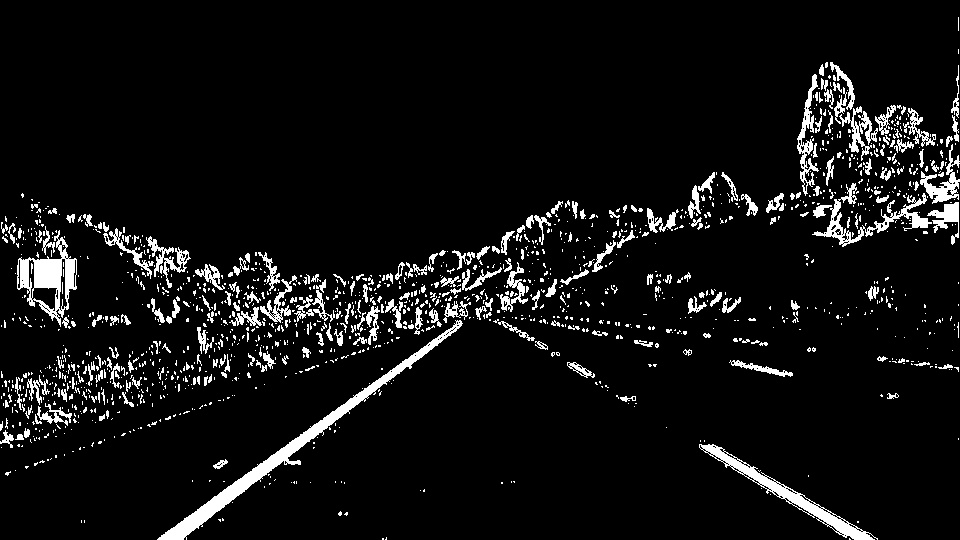
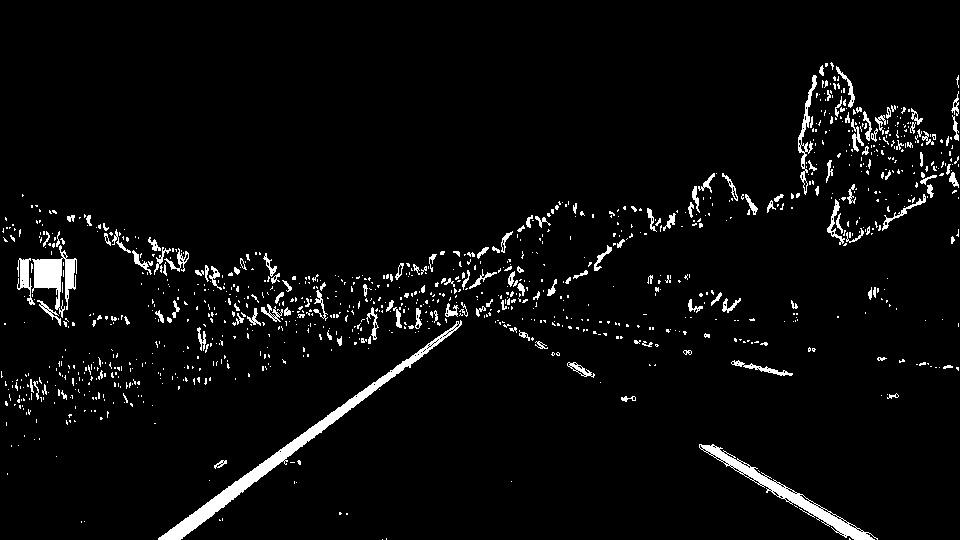
Perspective transform

diff --git a/src/perspective.py b/src/perspective.py
@@ -1,0 +1,117 @@
+"""
+Perspective transform: pogled kamere -> pogled odozgo ("birds-eye view").
+
+Ideja:
+  Na slici kamere paralelne linije trake se skupljaju ka horizontu.
+  Izaberemo 4 tacke na putu koje u stvarnosti cine pravougaonik (SRC trapez)
+  i kazemo OpenCV-u gde zelimo da budu na novoj slici (DST pravougaonik).
+  cv2.getPerspectiveTransform iz ta 4 para tacaka racuna matricu 3x3 (M),
+  a cv2.warpPerspective tom matricom "rasteze" celu sliku.
+  Inverzna matrica (Minv) vraca rezultat nazad na sliku kamere (koristimo na kraju).
+
+"""
+import cv2
+import numpy as np
+import matplotlib
+
+matplotlib.use("Agg")
+import matplotlib.pyplot as plt
+
+from src.calibration import ROOT, load_calibration, undistort
+from src.tresholding import threshold, CAMERA_SHAPE
+
+TEST_DIR = ROOT / "test_images"
+OUT_DIR = ROOT / "output_images"
+WARPED_DIR = OUT_DIR / "warped_binary"
+
+# ----------------------------------------------------------------------------
+# Tacke za 1280x720 sliku. Redosled: gore-levo, gore-desno, dole-desno, dole-levo
+# SRC su izabrane na straight_lines1.jpg tako da leze na linijama trake.
+# ----------------------------------------------------------------------------
+SRC = np.float32([
+    [585, 460],
+    [695, 460],
+    [1127, 720],
+    [203, 720],
+])
+DST = np.float32([
+    [320, 0],
+    [960, 0],
+    [960, 720],
+    [320, 720],
+])
+
+M = cv2.getPerspectiveTransform(SRC, DST)
+MINV = cv2.getPerspectiveTransform(DST, SRC)
+
+
+def warp(img, matrix=M):
+    """Pogled kamere -> birds-eye."""
+    h, w = img.shape[:2]
+    return cv2.warpPerspective(img, matrix, (w, h), flags=cv2.INTER_LINEAR)
+
+
+def unwarp(img):
+    """Birds-eye -> pogled kamere."""
+    return warp(img, MINV)
+
+
+# ----------------------------------------------------------------------------
+# Slike za README
+# ----------------------------------------------------------------------------
+def _draw_polygon(img, pts, color=(0, 0, 255), thickness=3):
+    out = img.copy()
+    cv2.polylines(out, [pts.astype(np.int32)], isClosed=True, color=color, thickness=thickness)
+    return out
+
+
+def _save_pair(left, right, titles, out_path, source_name, cmap=None):
+    fig, axes = plt.subplots(1, 2, figsize=(16, 5.5), facecolor="#1e1e1e")
+    for ax, img, title, color in zip(axes, (left, right), titles, ("#ff8c42", "#4fc3f7")):
+        if img.ndim == 3:
+            ax.imshow(cv2.cvtColor(img, cv2.COLOR_BGR2RGB))
+        else:
+            ax.imshow(img, cmap=cmap)
+        ax.set_title(title, fontsize=18, color=color, fontweight="bold")
+        ax.axis("off")
+    fig.suptitle(f"Perspective transform - {source_name}", fontsize=14, color="white")
+    fig.tight_layout()
+    fig.savefig(out_path, dpi=80)
+    plt.close(fig)
+
+
+def main():
+    WARPED_DIR.mkdir(parents=True, exist_ok=True)
+    mtx, dist = load_calibration()
+
+    # 1) Provera na pravom putu: crveni trapez -> crveni pravougaonik
+    for name in ("straight_lines1", "straight_lines2"):
+        img = undistort(cv2.imread(str(TEST_DIR / f"{name}.jpg")), mtx, dist)
+        before = _draw_polygon(img, SRC)
+        after = _draw_polygon(warp(img), DST)
+        _save_pair(before, after, ("Undistorted + source points", "Warped + destination points"),
+                   OUT_DIR / f"warped_{name}.png", f"{name}.jpg")
+
+    # 2) Binarne slike u birds-eye prikazu
+    for path in sorted(TEST_DIR.glob("*.jpg")):
+        img = cv2.imread(str(path))
+        if img.shape[:2] != CAMERA_SHAPE:
+            # druga kamera -> tacke i kalibracija ne vaze
+            print(f"Preskocena {path.name}: velicina {img.shape[1]}x{img.shape[0]}")
+            continue
+        img = undistort(img, mtx, dist)
+        binary = threshold(img)
+        warped = warp(binary)
+        cv2.imwrite(str(WARPED_DIR / path.name), warped * 255)
+
+        if path.stem == "test5":
+            _save_pair(binary, warped, ("Binary", "Warped binary (birds-eye)"),
+                       OUT_DIR / "warped_binary_test5.png", path.name, cmap="gray")
+
+    print("Provera:  output_images/warped_straight_lines1.png, warped_straight_lines2.png")
+    print("Primer:   output_images/warped_binary_test5.png")
+    print(f"Sve slike: {WARPED_DIR.relative_to(ROOT)}")
+
+
+if __name__ == "__main__":
+    main()

diff --git a/src/debug_masks.py b/src/debug_masks.py
@@ -1,0 +1,68 @@
+"""
+Dijagnostika: koja maska iz thresholdinga pravi sum u birds-eye prikazu.
+
+Pokretanje (iz root foldera repoa):
+    python -m src.debug_masks test1.jpg test4.jpg
+
+Za svaku sliku pravi output_images/debug_masks_<ime>.png sa 6 panela
+(sve vec u birds-eye prikazu):
+    boja | gradijent | saturacija
+    zuta | bela      | kombinovano
+"""
+import sys
+
+import cv2
+import numpy as np
+import matplotlib
+
+matplotlib.use("Agg")
+import matplotlib.pyplot as plt
+
+from src.calibration import ROOT, load_calibration, undistort
+from src.perspective import warp
+from src import tresholding as th
+
+TEST_DIR = ROOT / "test_images"
+OUT_DIR = ROOT / "output_images"
+
+
+def masks(img):
+    hls = cv2.cvtColor(img, cv2.COLOR_BGR2HLS)
+    l_ch, s_ch = hls[:, :, 1], hls[:, :, 2]
+    grad = th.sobel_x_binary(l_ch)
+    sat = th.channel_binary(s_ch, th.S_THRESH) & (l_ch >= th.S_MIN_LIGHTNESS)
+    yellow = (cv2.inRange(hls, th.YELLOW_LOW, th.YELLOW_HIGH) > 0).astype(np.uint8)
+    white = (cv2.inRange(hls, th.WHITE_LOW, th.WHITE_HIGH) > 0).astype(np.uint8)
+    combined = th.threshold(img)
+    return grad, sat, yellow, white, combined
+
+
+def main(names):
+    mtx, dist = load_calibration()
+    for name in names:
+        img = undistort(cv2.imread(str(TEST_DIR / name)), mtx, dist)
+        grad, sat, yellow, white, combined = masks(img)
+
+        panels = [
+            (cv2.cvtColor(warp(img), cv2.COLOR_BGR2RGB), "Color (warped)"),
+            (warp(grad), f"Gradient  ({warp(grad).sum()} px)"),
+            (warp(sat), f"Saturation  ({warp(sat).sum()} px)"),
+            (warp(yellow), f"Yellow  ({warp(yellow).sum()} px)"),
+            (warp(white), f"White  ({warp(white).sum()} px)"),
+            (warp(combined), "Combined"),
+        ]
+        fig, axes = plt.subplots(2, 3, figsize=(18, 7), facecolor="#1e1e1e")
+        for ax, (data, title) in zip(axes.ravel(), panels):
+            ax.imshow(data, cmap=None if data.ndim == 3 else "gray")
+            ax.set_title(title, fontsize=14, color="#4fc3f7", fontweight="bold")
+            ax.axis("off")
+        fig.suptitle(f"Mask debug - {name}", fontsize=14, color="white")
+        fig.tight_layout()
+        out = OUT_DIR / f"debug_masks_{name.rsplit('.', 1)[0]}.png"
+        fig.savefig(out, dpi=70)
+        plt.close(fig)
+        print("Sacuvano:", out.relative_to(ROOT))
+
+
+if __name__ == "__main__":
+    main(sys.argv[1:] or ["test1.jpg", "test4.jpg"])

diff --git a/src/tresholding.py b/src/tresholding.py
@@ -25,13 +25,14 @@ OUT_DIR = ROOT / "output_images"
 BINARY_DIR = OUT_DIR / "binary"
 
 # ----------------------------------------------------------------------------
-# Pragovi - podesavanje ponasanja
+# Pragovi - ovde se podesava ponasanje
 # ----------------------------------------------------------------------------
 SOBEL_KERNEL = 3
-SOBEL_X_THRESH = (20, 100)   # jacina vertikalne ivice (0-255 posle skaliranja)
+SOBEL_X_THRESH = (30, 100)   # jacina vertikalne ivice (0-255 posle skaliranja)
 S_THRESH = (170, 255)        # saturacija
+S_MIN_LIGHTNESS = 100        # tamne senke imaju visok S -> S maska samo gde je L dovoljno visok
 # HLS u OpenCV-u: H 0-179, L 0-255, S 0-255
-YELLOW_LOW = (15, 30, 80)    # (H, L, S)
+YELLOW_LOW = (15, 80, 130)    # (H, L, S) S >= 130 je moralo da svetao bez beton ne prolazi kao zuta
 YELLOW_HIGH = (35, 204, 255)
 WHITE_LOW = (0, 200, 0)
 WHITE_HIGH = (179, 255, 255)
@@ -75,7 +76,8 @@ def threshold(img, return_layers=False):
     l_ch, s_ch = hls[:, :, 1], hls[:, :, 2]
 
     grad = sobel_x_binary(l_ch)
-    color = channel_binary(s_ch, S_THRESH) | yellow_white_binary(hls)
+    saturated = channel_binary(s_ch, S_THRESH) & (l_ch >= S_MIN_LIGHTNESS)
+    color = saturated | yellow_white_binary(hls)
     combined = grad | color
 
     if return_layers:

diff --git a/README.md b/README.md
@@ -85,8 +85,17 @@ Both lane lines are detected clearly on all test images, including the yellow li
 
 #### 3. Describe how (and identify where in your code) you performed a perspective transform and provide an example of a transformed image.
 
-TODO: Add your text here!!!
+In the camera image, parallel lane lines converge toward the horizon. To measure lane curvature and width, the image is transformed into a top-down ("birds-eye") view in which the lane lines are parallel again.
 
+I picked four source points on `straight_lines1.jpg` that lie on the lane lines and form a rectangle on the road, which appears as a trapezoid in the image. They are mapped to four destination points forming an upright rectangle.
+
+`cv2.getPerspectiveTransform()` computes the 3×3 transformation matrix `M` from these point pairs, and its inverse `Minv` from the swapped pairs. The constants `M` and `MINV` are computed once when the module is loaded. The function `warp()` applies `M` with `cv2.warpPerspective()`, and `unwarp()` applies `Minv`. `unwarp()` is used at the end of the pipeline to draw the detected lane back onto the camera image.
+
+I verified the transform by drawing the source points on a straight road image and the destination points on its warped counterpart. Both lane lines are vertical and parallel after warping, and they lie on the destination rectangle:
+![alt text](warped_straight_lines1.png)
+Applied to the binary image, the transform also removes most of the noise above the horizon and beside the road:
+![alt text](warped_binary_test5.png)
+The 960×540 test images taken with a different camera (`challange*`, `solid*`, `whiteCarLaneSwitch`) are skipped, because both the calibration and the source points are valid only for the 1280×720 camera. Warped binaries of all other test images are saved in `output_images/warped_binary/`.
 #### 4. Describe how (and identify where in your code) you identified lane-line pixels and fit their positions with a polynomial?
 
 TODO: Add your text here!!!
